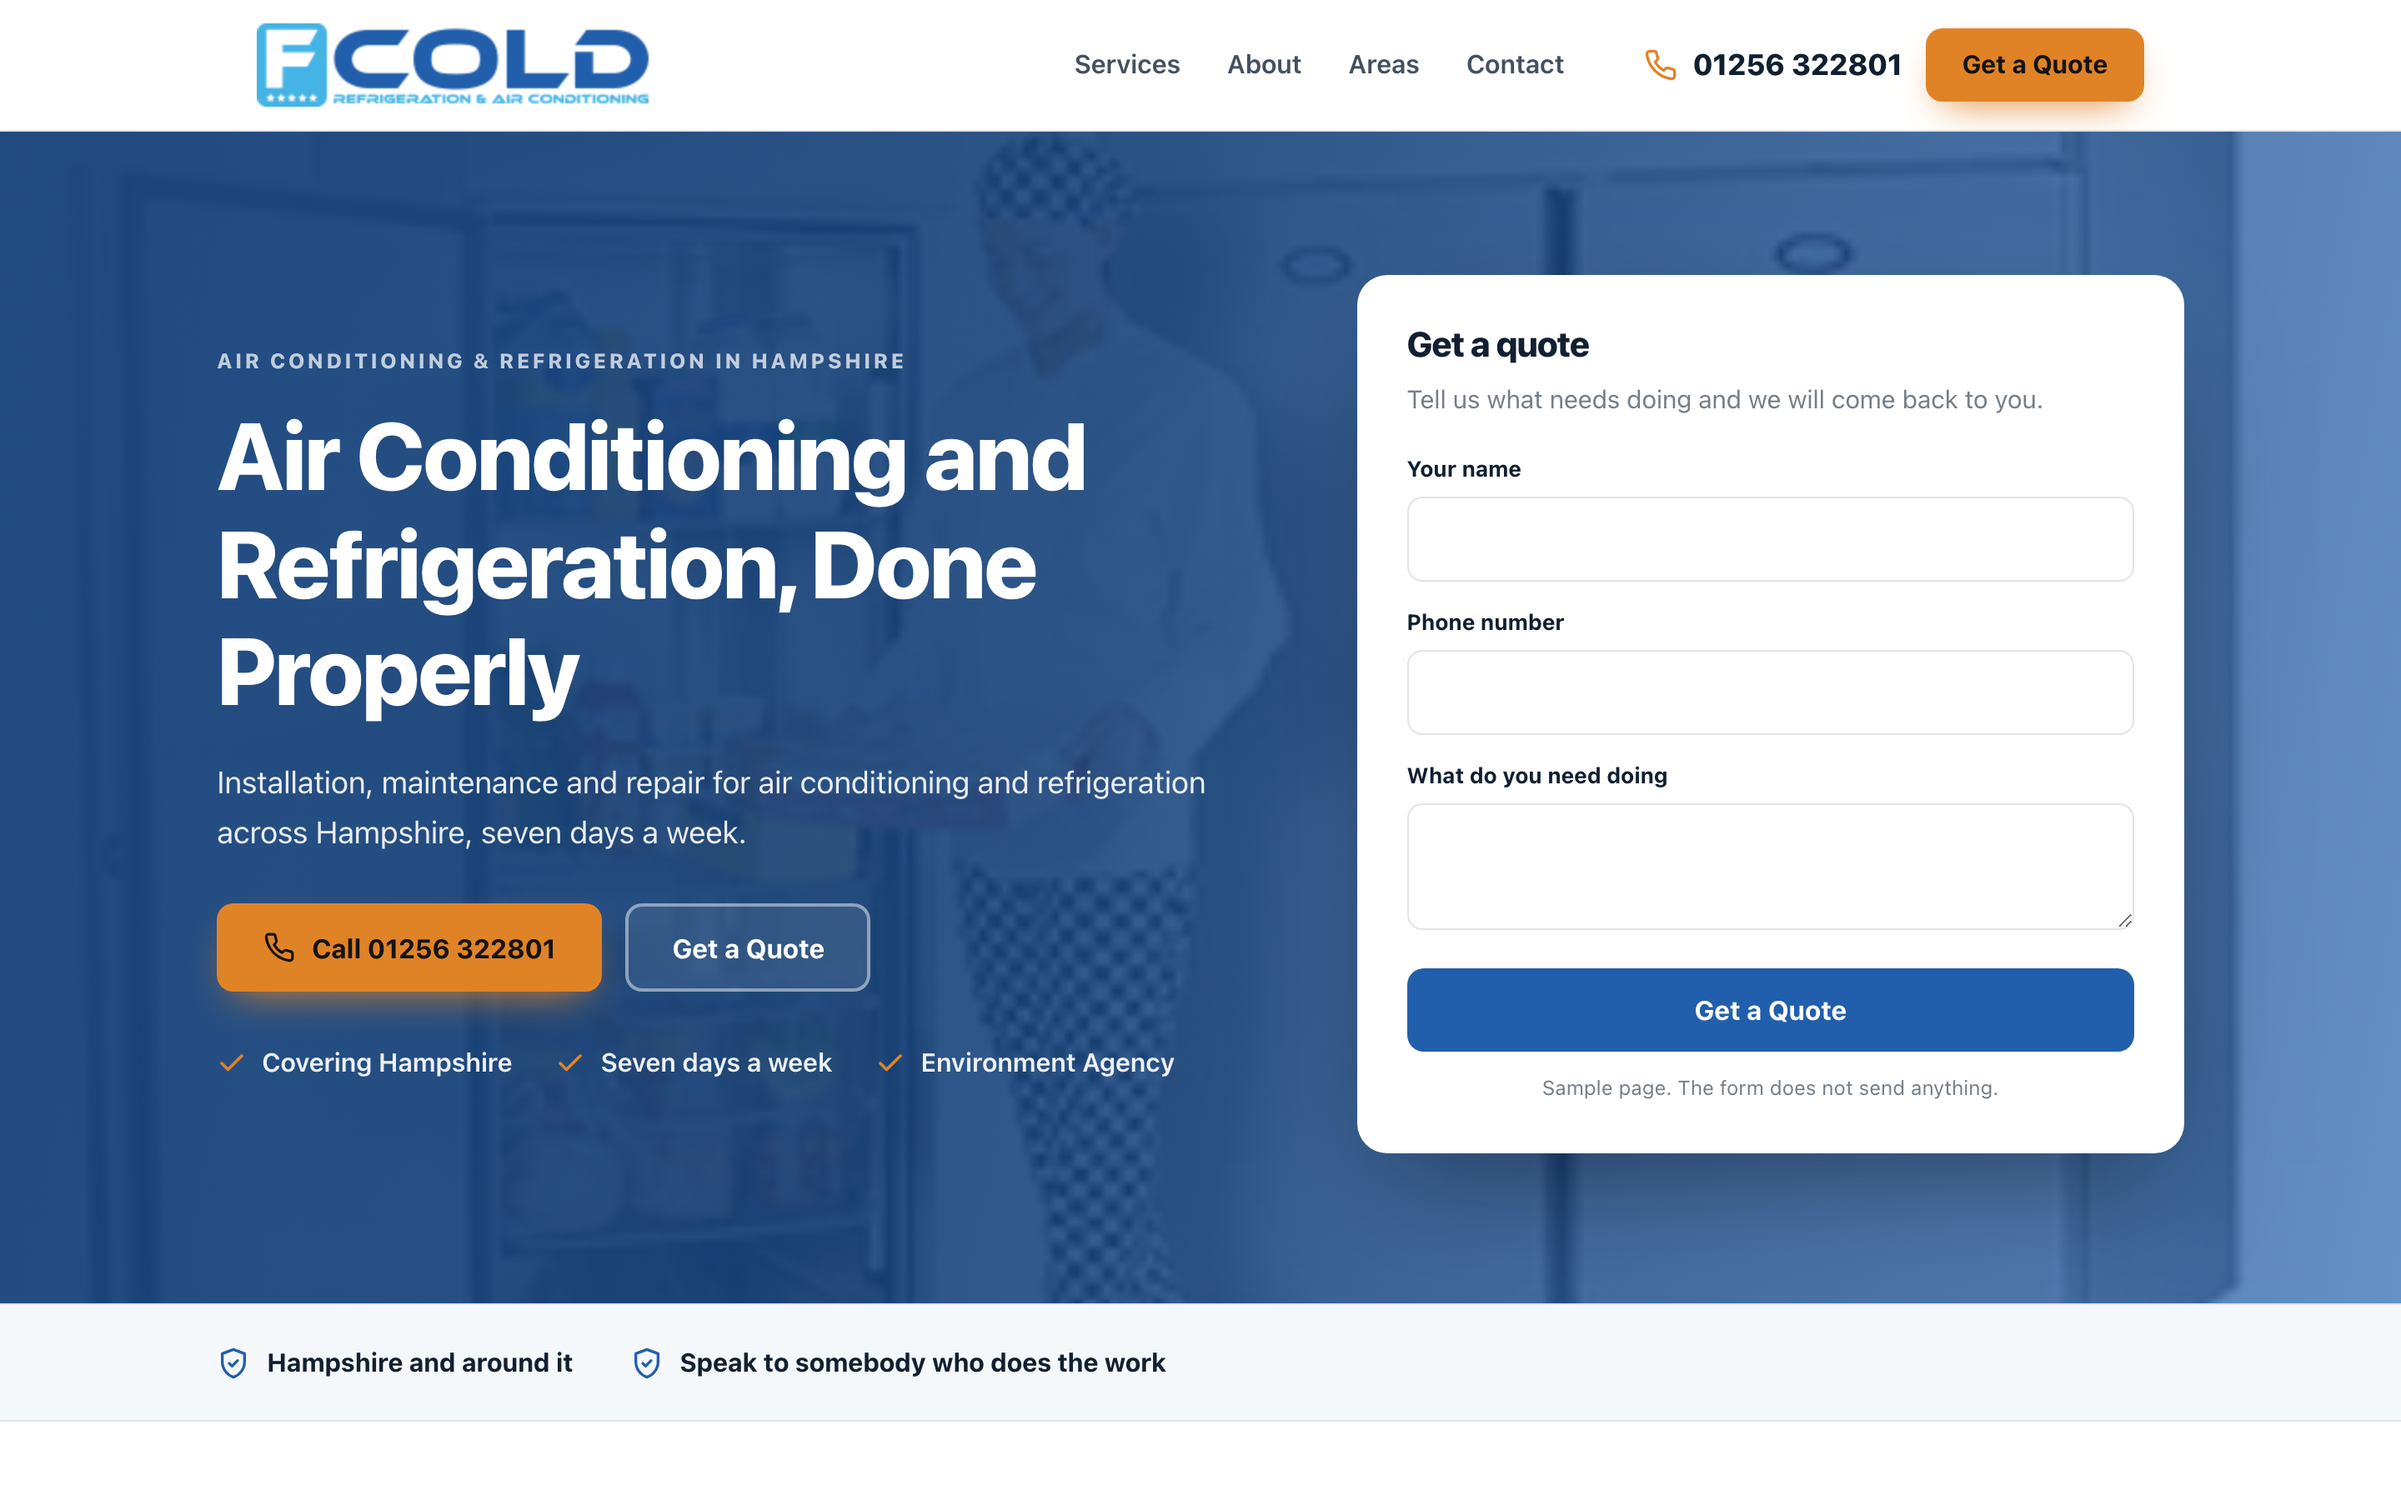
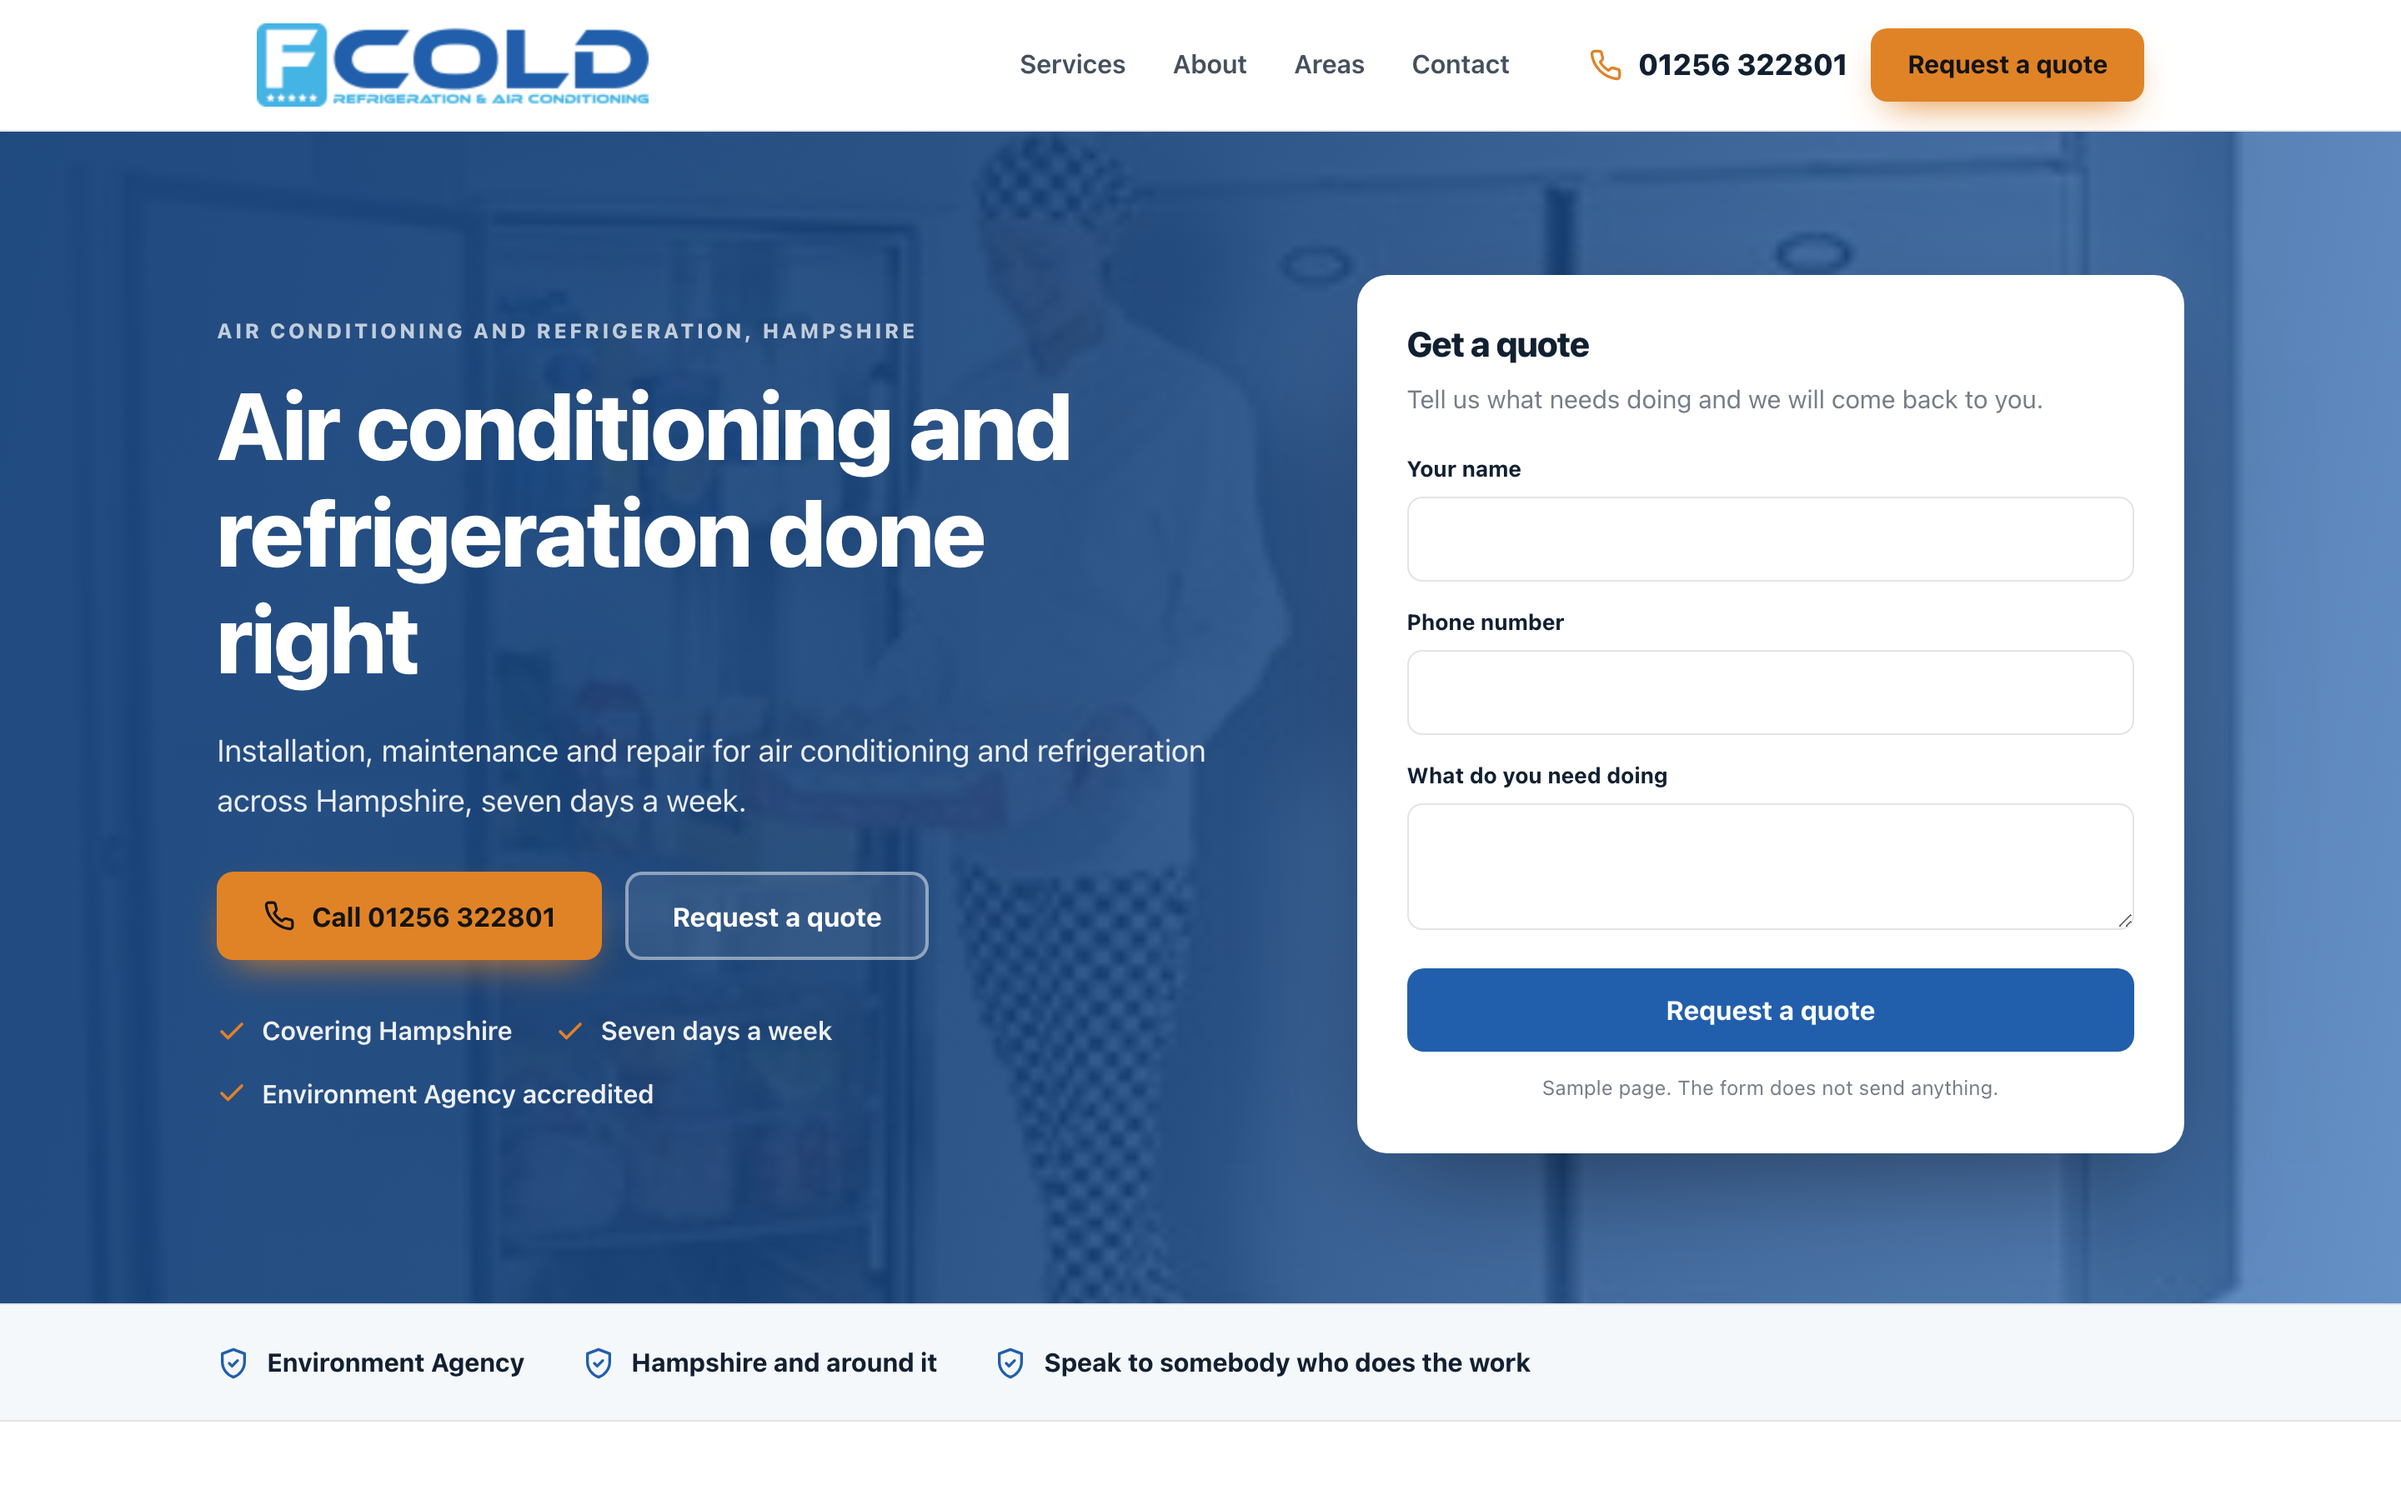
Sample homepage for F Cold

diff --git a/docs/83ec72e816/index.html b/docs/83ec72e816/index.html
@@ -4,6 +4,7 @@
 <meta charset="utf-8">
 <meta name="viewport" content="width=device-width, initial-scale=1">
 <meta name="robots" content="noindex,nofollow">
+<meta name="aso-build" content="">
 <title>F Cold sample homepage</title>
 <meta name="description" content="Installation, maintenance and repair for air conditioning and refrigeration across Hampshire, seven days a week.">
 <link rel="canonical" href="https://markygff.github.io/aso-mockups/83ec72e816/">
@@ -11,7 +12,7 @@
 <meta property="og:title" content="F Cold sample homepage">
 <meta property="og:description" content="Installation, maintenance and repair for air conditioning and refrigeration across Hampshire, seven days a week.">
 <meta property="og:url" content="https://markygff.github.io/aso-mockups/83ec72e816/">
-<meta property="og:image" content="https://www.fcold.co.uk/images/37ad5f31-7be1-480a-9062-a4d2b78547ff.jpg"><style>
+<meta property="og:image" content="img/t03.jpg"><style>
 :root{
   --primary:#215fac;
   --primary-dark:#18447c;
@@ -52,7 +53,8 @@ p{margin:0}
 .nav{display:flex;gap:28px;margin-left:auto;font-weight:600;font-size:.97rem;color:var(--ink)}
 .nav span{opacity:.78}
 .header-cta{display:flex;align-items:center;gap:14px;margin-left:28px}
-.tel{display:flex;align-items:center;gap:9px;font-weight:800;font-size:1.1rem;color:var(--ink)}
+.tel{display:flex;align-items:center;gap:9px;font-weight:800;font-size:1.1rem;
+     color:var(--ink);text-decoration:none}
 .tel svg{width:20px;height:20px;color:var(--accent)}
 .header-cta .btn{padding:12px 20px;font-size:.95rem}
 
@@ -119,30 +121,30 @@ p{margin:0}
 <header class="header">
   <div class="wrap header-in">
     <div class="brand">
-<img src="https://www.fcold.co.uk/images/f-cold-logo.png" alt="F Cold logo">    </div>
+<img src="img/logo.png" alt="F Cold logo">    </div>
     <nav class="nav">
       <span>Services</span><span>About</span><span>Areas</span><span>Contact</span>
     </nav>
     <div class="header-cta">
-      <span class="tel"><svg viewBox="0 0 24 24" fill="none" stroke="currentColor" stroke-width="2" stroke-linecap="round" stroke-linejoin="round" aria-hidden="true"><path d="M22 16.9v3a2 2 0 0 1-2.2 2 19.8 19.8 0 0 1-8.6-3.1 19.5 19.5 0 0 1-6-6 19.8 19.8 0 0 1-3.1-8.7A2 2 0 0 1 4.1 2h3a2 2 0 0 1 2 1.7c.1 1 .4 1.9.7 2.8a2 2 0 0 1-.5 2.1L8.1 9.9a16 16 0 0 0 6 6l1.3-1.2a2 2 0 0 1 2.1-.5c.9.3 1.8.6 2.8.7a2 2 0 0 1 1.7 2z"/></svg><span>01256 322801</span></span>
-      <span class="btn btn-accent">Get a Quote</span>
+      <a class="tel" href="tel:+441256322801"><svg viewBox="0 0 24 24" fill="none" stroke="currentColor" stroke-width="2" stroke-linecap="round" stroke-linejoin="round" aria-hidden="true"><path d="M22 16.9v3a2 2 0 0 1-2.2 2 19.8 19.8 0 0 1-8.6-3.1 19.5 19.5 0 0 1-6-6 19.8 19.8 0 0 1-3.1-8.7A2 2 0 0 1 4.1 2h3a2 2 0 0 1 2 1.7c.1 1 .4 1.9.7 2.8a2 2 0 0 1-.5 2.1L8.1 9.9a16 16 0 0 0 6 6l1.3-1.2a2 2 0 0 1 2.1-.5c.9.3 1.8.6 2.8.7a2 2 0 0 1 1.7 2z"/></svg><span>01256 322801</span></a>
+      <span class="btn btn-accent">Request a quote</span>
     </div>
   </div>
 </header>
 
 <section class="hero">
-  <div class="hero-bg"><img src="https://www.fcold.co.uk/images/37ad5f31-7be1-480a-9062-a4d2b78547ff.jpg" alt="F Cold at work" width="1600" height="900"></div>
+  <div class="hero-bg"><img src="img/t03.jpg" alt="F Cold at work" width="1600" height="900"></div>
   <div class="wrap hero-in">
     <div>
-      <p class="eyebrow">Air Conditioning &amp; Refrigeration in Hampshire</p>
-      <h1>Air Conditioning and Refrigeration, Done Properly</h1>
+      <p class="eyebrow">Air conditioning and refrigeration, Hampshire</p>
+      <h1>Air conditioning and refrigeration done right</h1>
       <p class="hero-sub">Installation, maintenance and repair for air conditioning and refrigeration across Hampshire, seven days a week.</p>
       <div class="hero-actions">
         <span class="btn btn-accent"><svg viewBox="0 0 24 24" fill="none" stroke="currentColor" stroke-width="2" stroke-linecap="round" stroke-linejoin="round" aria-hidden="true"><path d="M22 16.9v3a2 2 0 0 1-2.2 2 19.8 19.8 0 0 1-8.6-3.1 19.5 19.5 0 0 1-6-6 19.8 19.8 0 0 1-3.1-8.7A2 2 0 0 1 4.1 2h3a2 2 0 0 1 2 1.7c.1 1 .4 1.9.7 2.8a2 2 0 0 1-.5 2.1L8.1 9.9a16 16 0 0 0 6 6l1.3-1.2a2 2 0 0 1 2.1-.5c.9.3 1.8.6 2.8.7a2 2 0 0 1 1.7 2z"/></svg>Call 01256 322801</span>
-        <span class="btn btn-ghost">Get a Quote</span>
+        <span class="btn btn-ghost">Request a quote</span>
       </div>
       <ul class="hero-bullets">
-<li><svg viewBox="0 0 24 24" fill="none" stroke="currentColor" stroke-width="2.4" stroke-linecap="round" stroke-linejoin="round" aria-hidden="true"><path d="M20 6 9 17l-5-5"/></svg><span>Covering Hampshire</span></li><li><svg viewBox="0 0 24 24" fill="none" stroke="currentColor" stroke-width="2.4" stroke-linecap="round" stroke-linejoin="round" aria-hidden="true"><path d="M20 6 9 17l-5-5"/></svg><span>Seven days a week</span></li><li><svg viewBox="0 0 24 24" fill="none" stroke="currentColor" stroke-width="2.4" stroke-linecap="round" stroke-linejoin="round" aria-hidden="true"><path d="M20 6 9 17l-5-5"/></svg><span>Environment Agency</span></li>      </ul>
+<li><svg viewBox="0 0 24 24" fill="none" stroke="currentColor" stroke-width="2.4" stroke-linecap="round" stroke-linejoin="round" aria-hidden="true"><path d="M20 6 9 17l-5-5"/></svg><span>Covering Hampshire</span></li><li><svg viewBox="0 0 24 24" fill="none" stroke="currentColor" stroke-width="2.4" stroke-linecap="round" stroke-linejoin="round" aria-hidden="true"><path d="M20 6 9 17l-5-5"/></svg><span>Seven days a week</span></li><li><svg viewBox="0 0 24 24" fill="none" stroke="currentColor" stroke-width="2.4" stroke-linecap="round" stroke-linejoin="round" aria-hidden="true"><path d="M20 6 9 17l-5-5"/></svg><span>Environment Agency accredited</span></li>      </ul>
     </div>
     <div class="quote-card">
       <h3>Get a quote</h3>
@@ -150,7 +152,7 @@ p{margin:0}
       <div class="field"><label>Your name</label><input type="text" disabled></div>
       <div class="field"><label>Phone number</label><input type="tel" disabled></div>
       <div class="field"><label>What do you need doing</label><textarea disabled></textarea></div>
-      <span class="btn btn-primary">Get a Quote</span>
+      <span class="btn btn-primary">Request a quote</span>
       <p class="sample-note">Sample page. The form does not send anything.</p>
     </div>
   </div>
@@ -158,6 +160,7 @@ p{margin:0}
 
 <div class="strip">
   <div class="wrap strip-in">
+    <div class="strip-item"><svg viewBox="0 0 24 24" fill="none" stroke="currentColor" stroke-width="2" stroke-linecap="round" stroke-linejoin="round" aria-hidden="true"><path d="M12 2 4 5v6c0 5 3.4 9.4 8 11 4.6-1.6 8-6 8-11V5z"/><path d="m9 12 2 2 4-4"/></svg><span>Environment Agency</span></div>
     <div class="strip-item"><svg viewBox="0 0 24 24" fill="none" stroke="currentColor" stroke-width="2" stroke-linecap="round" stroke-linejoin="round" aria-hidden="true"><path d="M12 2 4 5v6c0 5 3.4 9.4 8 11 4.6-1.6 8-6 8-11V5z"/><path d="m9 12 2 2 4-4"/></svg><span>Hampshire and around it</span></div>
     <div class="strip-item"><svg viewBox="0 0 24 24" fill="none" stroke="currentColor" stroke-width="2" stroke-linecap="round" stroke-linejoin="round" aria-hidden="true"><path d="M12 2 4 5v6c0 5 3.4 9.4 8 11 4.6-1.6 8-6 8-11V5z"/><path d="m9 12 2 2 4-4"/></svg><span>Speak to somebody who does the work</span></div>
   </div>
@@ -174,17 +177,17 @@ p{margin:0}
       <article class="card">
         <div class="icon"><svg viewBox="0 0 24 24" fill="none" stroke="currentColor" stroke-width="2" stroke-linecap="round" stroke-linejoin="round" aria-hidden="true"><path d="M14.7 6.3a4 4 0 0 0 5.3 5.3l-8 8a3 3 0 0 1-4.2-4.2z"/><path d="m14.7 6.3 3-3"/></svg></div>
         <h3>Air Conditioning</h3>
-        <p>Installation, maintenance and repair on cassette, ducted, VRF/VRV and wall or floor-mounted systems.</p>
+        <p>Cassette, ducted, VRF/VRV and wall or floor mounted systems, installed and maintained.</p>
       </article>
       <article class="card">
         <div class="icon"><svg viewBox="0 0 24 24" fill="none" stroke="currentColor" stroke-width="2" stroke-linecap="round" stroke-linejoin="round" aria-hidden="true"><path d="M13 2 4 14h7l-1 8 9-12h-7z"/></svg></div>
         <h3>Refrigeration</h3>
-        <p>Cold rooms, freezer rooms, display cabinets, ice machines and beer or wine cellars, installed and maintained.</p>
+        <p>Cold rooms, display cabinets, freezers and ice machines, kept running.</p>
       </article>
       <article class="card">
         <div class="icon"><svg viewBox="0 0 24 24" fill="none" stroke="currentColor" stroke-width="2" stroke-linecap="round" stroke-linejoin="round" aria-hidden="true"><path d="M3 10.5 12 3l9 7.5"/><path d="M5 9.5V21h14V9.5"/><path d="M10 21v-6h4v6"/></svg></div>
         <h3>and repair services include</h3>
-        <p>Full repair cover across our air conditioning and refrigeration work, seven days a week.</p>
+        <p>Beer and wine cellars, refrigerators and decommissioning work too.</p>
       </article>
     </div>
   </div>
